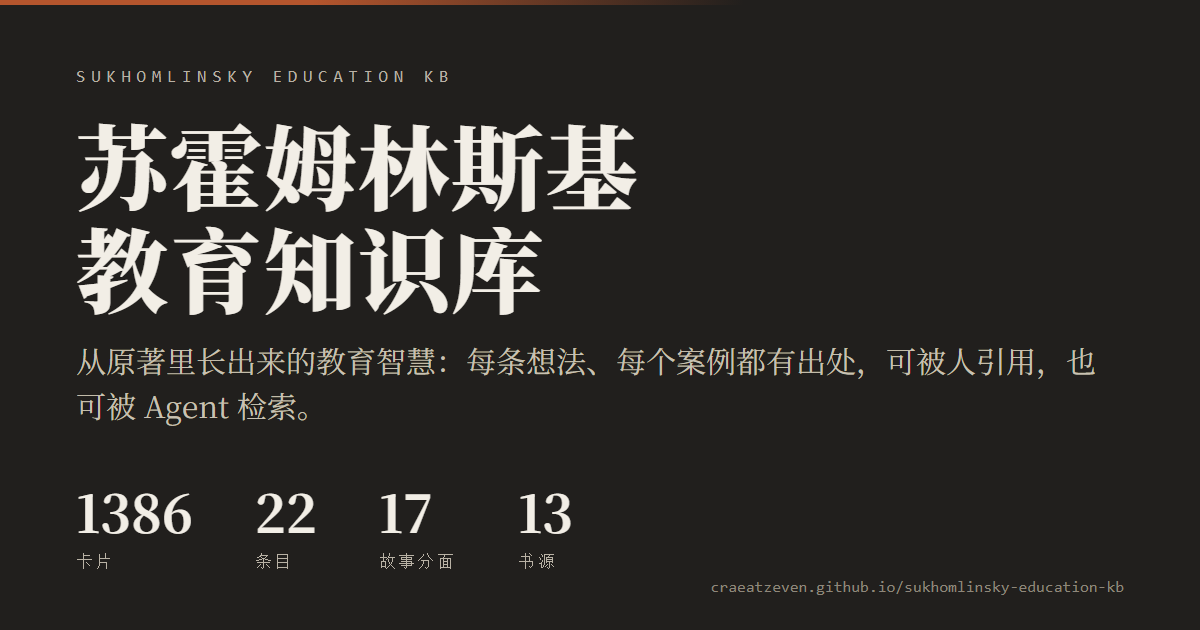
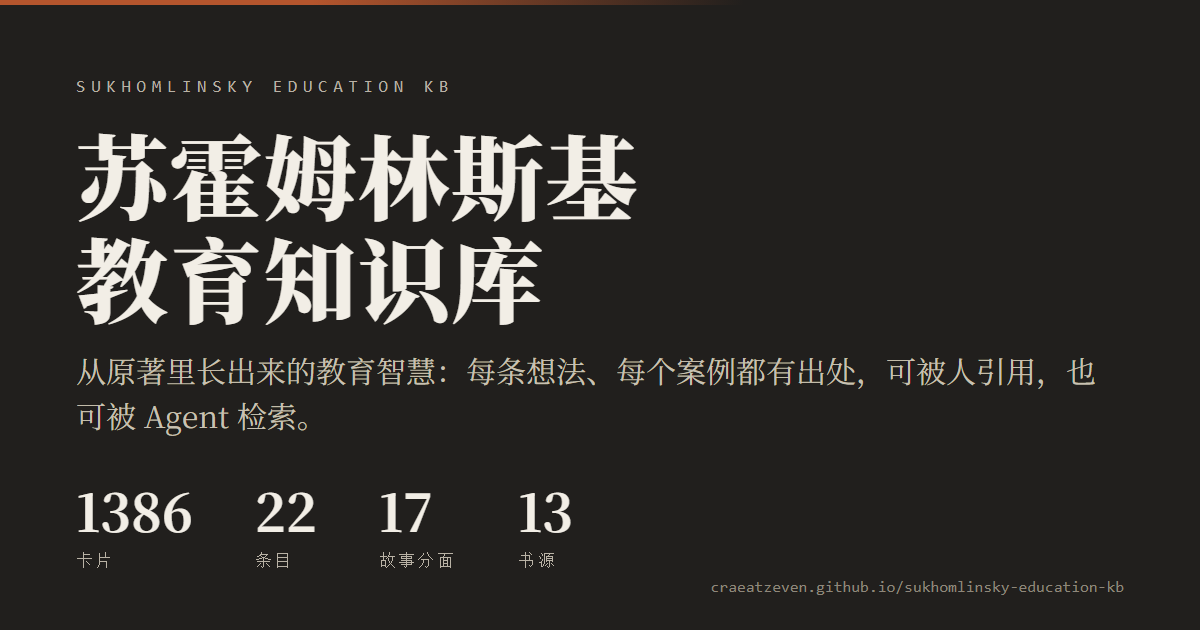
条目页 TOC：其实早就有，真正缺的是**长页吸顶**；外加宣传首图三尺寸
用户问「TOC 要做吗，和宣传首图」。两件都先量再答。

## 一、TOC：**我上一条清单误报了——它早就有了**
条目页第 74 行就是 `<nav class="entry-jump" id="entryJump" aria-label="本页分区">`，
由脚本填充分区跳转（主要论述 N / 相关论述·交叉参见 / 相关案例 / 同一角度其他条目 /
在全文里搜），`scroll-margin-top` 也配好了。
我上次报"缺 TOC"，是因为检查脚本找的是字面量 `toc`，而实现叫 `entry-jump` ——
**判据比被检查的东西错得更厉害**（同类问题今天第四次）。

**真正缺的是**：它是**静态**的（`.entry-jump` 没有 sticky），而实测条目页比估的长得多：

| | 实测 |
|---|---|
| A19（最长） | **17059px** ≈ 19 屏（我估的 7300px 差了一倍多） |
| A17（最短） | **3265px** ≈ 3.6 屏（我估 1272px） |
| 23 个条目 | 12 个 >3000px、4 个 >5000px；**全部 >3000px**（按实测页高） |

滚到一半时那排跳转早就滚没了，想跳去"交叉参见"得先滚回页首。
**修法：按内容行数决定吸顶**（主归属+参见+案例 ≥40 行才吸顶）——
门槛用**行数**不用像素，因为页高还含同角度条目/相关卡片/关于本卡等区，
与"分区跳转有没有用"无关。短页（A17 10 行、A20、A23…）不吸顶，免得白占一栏。
窄屏改成横向可滚的一行（纵向叠起来会吃掉首屏）。

**新增 2 条浏览器判据**（守两件方向相反的事，缺一条都不算对）：
· A19 长页：滚到 3000px 后 `rect.top ≈ --nav-h`（实测 **top=60px**，正好贴住）
· A17 短页：**不许**吸顶

## 二、我改坏过一次（判据当场抓到，不是我发现的）
第一版把吸顶逻辑插在第一次 `jumpBox.innerHTML = …` 之后，那里 **`cases` 还没定义** →
整段脚本抛 ReferenceError → **条目页整页渲染不出来**：
`A19 页高只剩 1181px`、`入门卡 0 张`。移到 `cases` 定义之后即修复。
**判据的阈值我自己也写错过一次**：拿估算的 1272px 当"短页"上限，实测 A17 有 3265px →
改成只断言"没有吸顶类"（行为），把行数与页高作为证据打印出来。

## 三、宣传首图：一模板三尺寸（`make_share_images.mjs`）
沿用原分享卡的排版语言（站点自己的字体/色值），**尺寸与字号按比例算**，不各写一套：

| 文件 | 尺寸 | 用途 |
|---|---|---|
| `web/og.png` | 1200×630 | 链接分享缩略图（og:image，全站共用） |
| `web/wechat.png` | 900×383 | 公众号头图（2.35:1，很扁——文案短、标题单行） |
| `web/bilibili.png` | 1146×717 | B 站封面（1.6:1，可放两行标题 + 数字行） |

数字仍**从 meta.json 现算**（1386 卡 / 22 条目 / 17 分面 / 13 书源），并**断言 DOM 尺寸与目标一致**
[…]

diff --git a/web/entry.html b/web/entry.html
@@ -22,7 +22,7 @@
 <meta name="twitter:description" content="一个条目的全部材料：为什么（主张）、怎么做（方法）、一个教学案例，以及主归属卡片与交叉参见。" />
 <meta name="twitter:image" content="https://craeatzeven.github.io/sukhomlinsky-education-kb/web/og.png" />
 <!-- social:end -->
-<link rel="stylesheet" href="style.css?v=20260917f" />
+<link rel="stylesheet" href="style.css?v=20260917h" />
 </head>
 <body data-theme="green">
 <nav class="topnav">
@@ -132,7 +132,7 @@
 </footer>
 
 <script src="kb.js"></script>
-<script src="theme.js?v=20260917f"></script>
+<script src="theme.js?v=20260917h"></script>
 <script>
 const PAGE_SIZE = 40;
 
@@ -230,7 +230,8 @@ document.addEventListener("DOMContentLoaded", async () => {
   }
   jump.push(`<a class="entry-jump-item" href="#siblingSection">同一角度的其他条目</a>`);
   jump.push(`<a class="entry-jump-item" href="search.html?q=${encodeURIComponent(entry.name)}">在全文里搜「${KB.esc(entry.name)}」→</a>`);
-  document.getElementById("entryJump").innerHTML = jump.join("");
+  const jumpBox = document.getElementById("entryJump");
+  jumpBox.innerHTML = jump.join("");
   /* 复分标签不持主归属，这一段的小标题与说明都要说清"下面是带标记的卡"，不能叫主归属 */
   document.getElementById("primaryTitle").textContent = info.tag ? "带此标记的卡" : "主归属";
   document.getElementById("primarySub").innerHTML = info.tag
@@ -269,6 +270,18 @@ document.addEventListener("DOMContentLoaded", async () => {
   } else {
     document.getElementById("caseSection").style.display = "none";
   }
+
+  /* 长页才吸顶（2026-09-17 加）。实测 23 个条目里 12 个超过 3000px、4 个超过 5000px
+     （A19 约 7300px ≈ 8 屏），而这排分区跳转原本是**静态**的——滚到一半就够不着，
+     想跳去"交叉参见"得先滚回页首。**短页不吸顶**：A17 只有 1272px，装了净是占地方。
+     门槛用**内容行数**（主归属 + 参见 + 案例），与页面高度的关系比像素阈值更稳。
+
+     **位置要紧**：这一段必须在 `cases` 定义**之后**。
+     第一版把它插在第一次 `jumpBox.innerHTML = …` 之后，那里 `cases` 还没定义 →
+     整段脚本抛 ReferenceError → **条目页整页渲染不出来**（A19 页高只剩 1181px、
+     入门卡 0 张）。是浏览器判据当场抓到的，不是我发现的。 */
+  const rows = cards.length + cross.length + cases.length;
+  if (rows >= 40) jumpBox.classList.add("is-sticky");
 
   /* 首屏的「从这里开始」：把编者挑的三张摆在主列表之前，
      免得读者一进来先面对几十行目录（评审 B·03：首屏偏重）。 */

diff --git a/web/style.css b/web/style.css
@@ -397,6 +397,22 @@ a.badge--see { color: var(--soft); border-style: dashed; }
 
 /* 条目页首屏分区跳转：让「交叉参见」不必滚过 40 行主归属才看得到 */
 .entry-jump { display: flex; flex-wrap: wrap; gap: 8px; margin: 0 0 22px; }
+/* 长页吸顶（2026-09-17）：`.is-sticky` 由 entry.html 按内容行数加（≥40 行）。
+   为什么只给长页：实测 23 个条目里 12 个 >3000px（A19 约 7300px），分区跳转在页首
+   滚到一半就够不着；而 A17 只有 1272px，吸顶净是占地方。
+   顶栏本身是 sticky（top:0），所以这里用 `top: var(--nav-h)` 贴在它下面，别写死像素。
+   窄屏改成横向可滚的一行——纵向叠起来会吃掉太多首屏。 */
+.entry-jump.is-sticky {
+  position: sticky; top: var(--nav-h); z-index: 900;
+  background: var(--paper); padding: 10px 0; margin-bottom: 16px;
+  border-bottom: 1px solid var(--line);
+}
+@media (max-width: 700px) {
+  .entry-jump.is-sticky { flex-wrap: nowrap; overflow-x: auto; -webkit-overflow-scrolling: touch;
+    scrollbar-width: none; }
+  .entry-jump.is-sticky::-webkit-scrollbar { display: none; }
+  .entry-jump.is-sticky .entry-jump-item { flex: 0 0 auto; }
+}
 .entry-jump-item {
   display: inline-flex; align-items: baseline; gap: 6px;
   border: 1px solid var(--line); border-radius: var(--radius-archive);

diff --git a/web/problem.html b/web/problem.html
@@ -22,7 +22,7 @@
 <meta name="twitter:description" content="输入一个教育问题（如“孩子说谎”“后进生”“坐不住”），找到苏霍姆林斯基的想法、案例与卡片。" />
 <meta name="twitter:image" content="https://craeatzeven.github.io/sukhomlinsky-education-kb/web/og.png" />
 <!-- social:end -->
-<link rel="stylesheet" href="style.css?v=20260917f" />
+<link rel="stylesheet" href="style.css?v=20260917h" />
 </head>
 <body data-theme="green">
 <nav class="topnav">
@@ -92,7 +92,7 @@
 </footer>
 
 <script src="kb.js"></script>
-<script src="theme.js?v=20260917f"></script>
+<script src="theme.js?v=20260917h"></script>
 <script>
 const PROBLEMS = [
   {id:"lying", title:"孩子说谎之后怎么办", keys:"说谎 撒谎 欺骗 改分数 藏试卷", desc:"先听谎言在保护什么；用弥补后果替代惩罚逼供。", ids:["sk-0081","sk-0143","sk-0152","sk-0047","sk-0042","sk-0084"]},

diff --git a/web/card.html b/web/card.html
@@ -22,7 +22,7 @@
 <meta name="twitter:description" content="一张卡：原文摘录、中文转述、教育场景，以及来源与出处核对，可复制引用或打印成 PDF。" />
 <meta name="twitter:image" content="https://craeatzeven.github.io/sukhomlinsky-education-kb/web/og.png" />
 <!-- social:end -->
-<link rel="stylesheet" href="style.css?v=20260917f" />
+<link rel="stylesheet" href="style.css?v=20260917h" />
 </head>
 <body data-theme="green">
 <nav class="topnav">
@@ -83,7 +83,7 @@
 </footer>
 
 <script src="kb.js"></script>
-<script src="theme.js?v=20260917f"></script>
+<script src="theme.js?v=20260917h"></script>
 <script>
 function getParam(){ return new URLSearchParams(location.search).get("id") || location.hash.replace("#",""); }
 function cardLink(c){ return `card.html?id=${encodeURIComponent(c.id)}#${KB.esc(c.id)}`; }

diff --git a/web/search.html b/web/search.html
@@ -22,7 +22,7 @@
 <meta name="twitter:description" content="全文检索全部卡片；后端不可达时自动回退到本地静态检索。" />
 <meta name="twitter:image" content="https://craeatzeven.github.io/sukhomlinsky-education-kb/web/og.png" />
 <!-- social:end -->
-<link rel="stylesheet" href="style.css?v=20260917f">
+<link rel="stylesheet" href="style.css?v=20260917h">
 </head>
 <body>
 <nav class="topnav">
@@ -100,9 +100,9 @@
   </div>
 </footer>
 
-<script src="config.js?v=20260917f"></script>
+<script src="config.js?v=20260917h"></script>
 <script src="kb.js"></script>
-<script src="theme.js?v=20260917f"></script>
+<script src="theme.js?v=20260917h"></script>
 <script>
 /* 双模式检索：
  *   1) 后端可用（config.js 的 apiBase 指向 FastAPI / Cloudflare Worker）→ 服务端 FTS5 检索 + 分页 + 聚合

diff --git a/web/taxonomy.html b/web/taxonomy.html
@@ -22,7 +22,7 @@
 <meta name="twitter:description" content="这个库怎么组织的、你该从哪儿找：论述卡按 22 个条目归类，故事卡按 17 个分面归类，另有 416 条交叉参见。" />
 <meta name="twitter:image" content="https://craeatzeven.github.io/sukhomlinsky-education-kb/web/og.png" />
 <!-- social:end -->
-<link rel="stylesheet" href="style.css?v=20260917f" />
+<link rel="stylesheet" href="style.css?v=20260917h" />
 </head>
 <body data-theme="green">
 <nav class="topnav">
@@ -150,7 +150,7 @@
 </footer>
 
 <script src="kb.js"></script>
-<script src="theme.js?v=20260917f"></script>
+<script src="theme.js?v=20260917h"></script>
 <script>
 /* 分类总图：读者优先。
    前半页回答"我该怎么找"（两类卡的分别、参见是什么、哪儿材料多、标记怎么用），

diff --git a/web/entries.html b/web/entries.html
@@ -22,7 +22,7 @@
 <meta name="twitter:description" content="5 个观察角度、22 个持条条目：宗旨、立场、教育关系与组织、内容与方法、衡量。点进任意条目看主归属卡片与交叉参见。" />
 <meta name="twitter:image" content="https://craeatzeven.github.io/sukhomlinsky-education-kb/web/og.png" />
 <!-- social:end -->
-<link rel="stylesheet" href="style.css?v=20260917f" />
+<link rel="stylesheet" href="style.css?v=20260917h" />
 </head>
 <body data-theme="green">
 <nav class="topnav">
@@ -85,7 +85,7 @@
 </footer>
 
 <script src="kb.js"></script>
-<script src="theme.js?v=20260917f"></script>
+<script src="theme.js?v=20260917h"></script>
 <script>
 /* 每个角度下的全部主归属卡：点开才加载该角度的分片（data/layer/<n>.json） */
 function bindAngleBrowser(){

diff --git a/web/index.html b/web/index.html
@@ -22,7 +22,7 @@
 <meta name="twitter:description" content="1386 张卡片、13 个书源：从原著里长出来的教育智慧，每条想法和每个案例都有出处，可引用、可检索。" />
 <meta name="twitter:image" content="https://craeatzeven.github.io/sukhomlinsky-education-kb/web/og.png" />
 <!-- social:end -->
-<link rel="stylesheet" href="style.css?v=20260917f" />
+<link rel="stylesheet" href="style.css?v=20260917h" />
 </head>
 <body>
 <nav class="topnav">
@@ -208,7 +208,7 @@
 </footer>
 
 <script src="kb.js"></script>
-<script src="theme.js?v=20260917f"></script>
+<script src="theme.js?v=20260917h"></script>
 <script>
 document.addEventListener("DOMContentLoaded", () => {
   /* 首页只加载 meta（约 9 KB）+ 一张随机卡片，不再拉整库数据。 */

diff --git a/web/topics.html b/web/topics.html
@@ -22,7 +22,7 @@
 <meta name="twitter:description" content="12 个编辑专题：每个都有核心判断、可操作方法、跨书综合与对应卡片。" />
 <meta name="twitter:image" content="https://craeatzeven.github.io/sukhomlinsky-education-kb/web/og.png" />
 <!-- social:end -->
-<link rel="stylesheet" href="style.css?v=20260917f" />
+<link rel="stylesheet" href="style.css?v=20260917h" />
 </head>
 <body data-theme="green">
 <nav class="topnav">
@@ -77,7 +77,7 @@
 </footer>
 
 <script src="kb.js"></script>
-<script src="theme.js?v=20260917f"></script>
+<script src="theme.js?v=20260917h"></script>
 <script>
 document.addEventListener("DOMContentLoaded", ()=>{
   document.getElementById("topicGrid").innerHTML = `<p class="section-sub">正在加载主题…</p>`;

diff --git a/web/explore.html b/web/explore.html
@@ -22,7 +22,7 @@
 <meta name="twitter:description" content="按主题、来源、类型、状态多选筛卡，可导出当前筛选结果为 JSON 或 CSV。" />
 <meta name="twitter:image" content="https://craeatzeven.github.io/sukhomlinsky-education-kb/web/og.png" />
 <!-- social:end -->
-<link rel="stylesheet" href="style.css?v=20260917f" />
+<link rel="stylesheet" href="style.css?v=20260917h" />
 </head>
 <body>
 <nav class="topnav">
@@ -106,7 +106,7 @@
 </footer>
 
 <script src="kb.js"></script>
-<script src="theme.js?v=20260917f"></script>
+<script src="theme.js?v=20260917h"></script>
 <script>
 let CARDS = [];                 /* 全库索引（摘要，无正文） */
 let CORPUS = null;              /* 全文检索语料，首次需要时再拉 */

diff --git a/web/cases.html b/web/cases.html
@@ -22,7 +22,7 @@
 <meta name="twitter:description" content="16 个教育困境反查知识库，给出可执行建议与对应原文。" />
 <meta name="twitter:image" content="https://craeatzeven.github.io/sukhomlinsky-education-kb/web/og.png" />
 <!-- social:end -->
-<link rel="stylesheet" href="style.css?v=20260917f" />
+<link rel="stylesheet" href="style.css?v=20260917h" />
 </head>
 <body>
 <nav class="topnav">
@@ -75,7 +75,7 @@
   </div>
 </footer>
 
-<script src="theme.js?v=20260917f"></script>
+<script src="theme.js?v=20260917h"></script>
 <script>
 const CASES = [
   {n:"案例 1", title:"越补越差的“后进生”", desc:"先停止惩罚性补课，找回真实活动中的成功体验。", ids:"sk-0001 · sk-0002 · sk-0068 · sk-0076"},

diff --git a/web/latest.html b/web/latest.html
@@ -22,7 +22,7 @@
 <meta name="twitter:description" content="按编号倒序看最新补入的卡片，每条都有出处。" />
 <meta name="twitter:image" content="https://craeatzeven.github.io/sukhomlinsky-education-kb/web/og.png" />
 <!-- social:end -->
-<link rel="stylesheet" href="style.css?v=20260917f" />
+<link rel="stylesheet" href="style.css?v=20260917h" />
 </head>
 <body data-theme="green">
 <nav class="topnav">
@@ -78,7 +78,7 @@
 </footer>
 
 <script src="kb.js"></script>
-<script src="theme.js?v=20260917f"></script>
+<script src="theme.js?v=20260917h"></script>
 <script>
 document.addEventListener("DOMContentLoaded", async ()=>{
   document.getElementById("latestGrid").innerHTML = `<p class="section-sub">正在加载最近卡片…</p>`;
